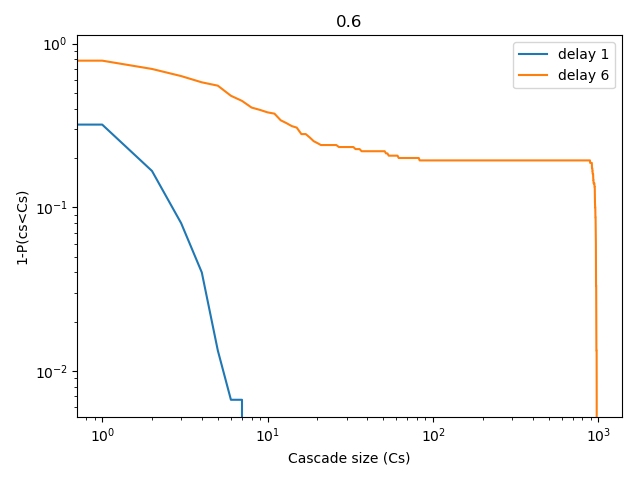
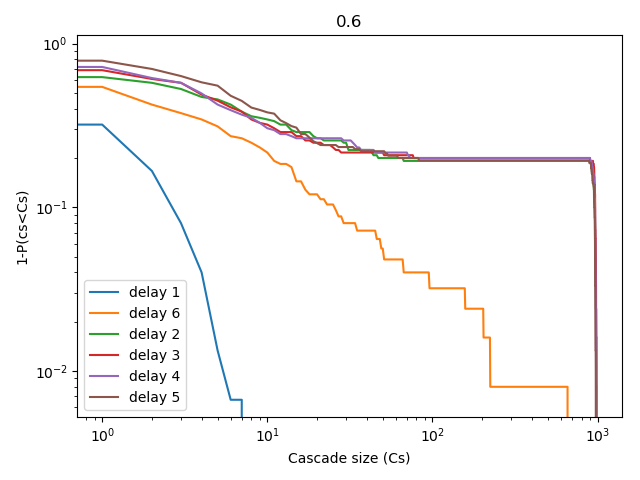
new cascades and plotting change

diff --git a/ploting_results.py b/ploting_results.py
@@ -14,19 +14,21 @@ names = {'0':'Stark' , '1':'Bolton', '2':'Umber','3':'Manderly','4':'Hornwood','
 betas = np.arange(0,1,0.1)
 plot_sectorial_multi_beta(probs,names,betas,filename='BBVA/images/sectorial_density1.png')
 
-densities = pickle.load(open('BBVA/results/comparison_ratio3_SOFT[2, 3].pickle', 'rb'))
+densities = pickle.load(open('BBVA/results/comparison_ratio2_SOFT[1, 2, 3, 4, 5, 6, 7].pickle', 'rb'))
 
-plot_comparison_densities(densities,delays=[2,3],
-                          filename='BBVA/images/comparison_ratio3_SOFT.png')
+plot_comparison_densities(densities,delays=[1,2,3,4,5,6,7],
+                          filename='BBVA/images/comparison_ratio2_SOFT.png')
+
+
 
 '''
-
-
 sizes1 = pickle.load(open('ER/results/cascades/SOFT[1, 6].pickle', 'rb'))
-#sizes2 = pickle.load(open('BA/results/cascades/SOFT[6, 7, 8].pickle', 'rb'))
+sizes2 = pickle.load(open('ER/results/cascades/ratio3_SOFT[2, 3, 4, 5].pickle', 'rb'))
 
-#[sizes1.append(siz) for siz in sizes2]
-res = plot_cascade_sizes(sizes1,delays=[1,6],title='0.6',
+
+[sizes1.append(siz) for siz in sizes2]
+
+res = plot_cascade_sizes(sizes1,delays=[1,6,2,3,4,5],title='0.6',
                    filename='ER/images/cascades/full2_ratio3.png')
 
 print(res)

diff --git a/cascades.py b/cascades.py
@@ -293,7 +293,7 @@ def plot_cascade_sizes(sizes: list, delays=[2, 4, 6], title='Title',
         
     k = 0
     max_prob = []
-    for size in sizes:
+    for delay,size in sorted(zip(delays, sizes)):
         max_size = max(size)
         np.sqrt(np.sum(size))
         prob = []
